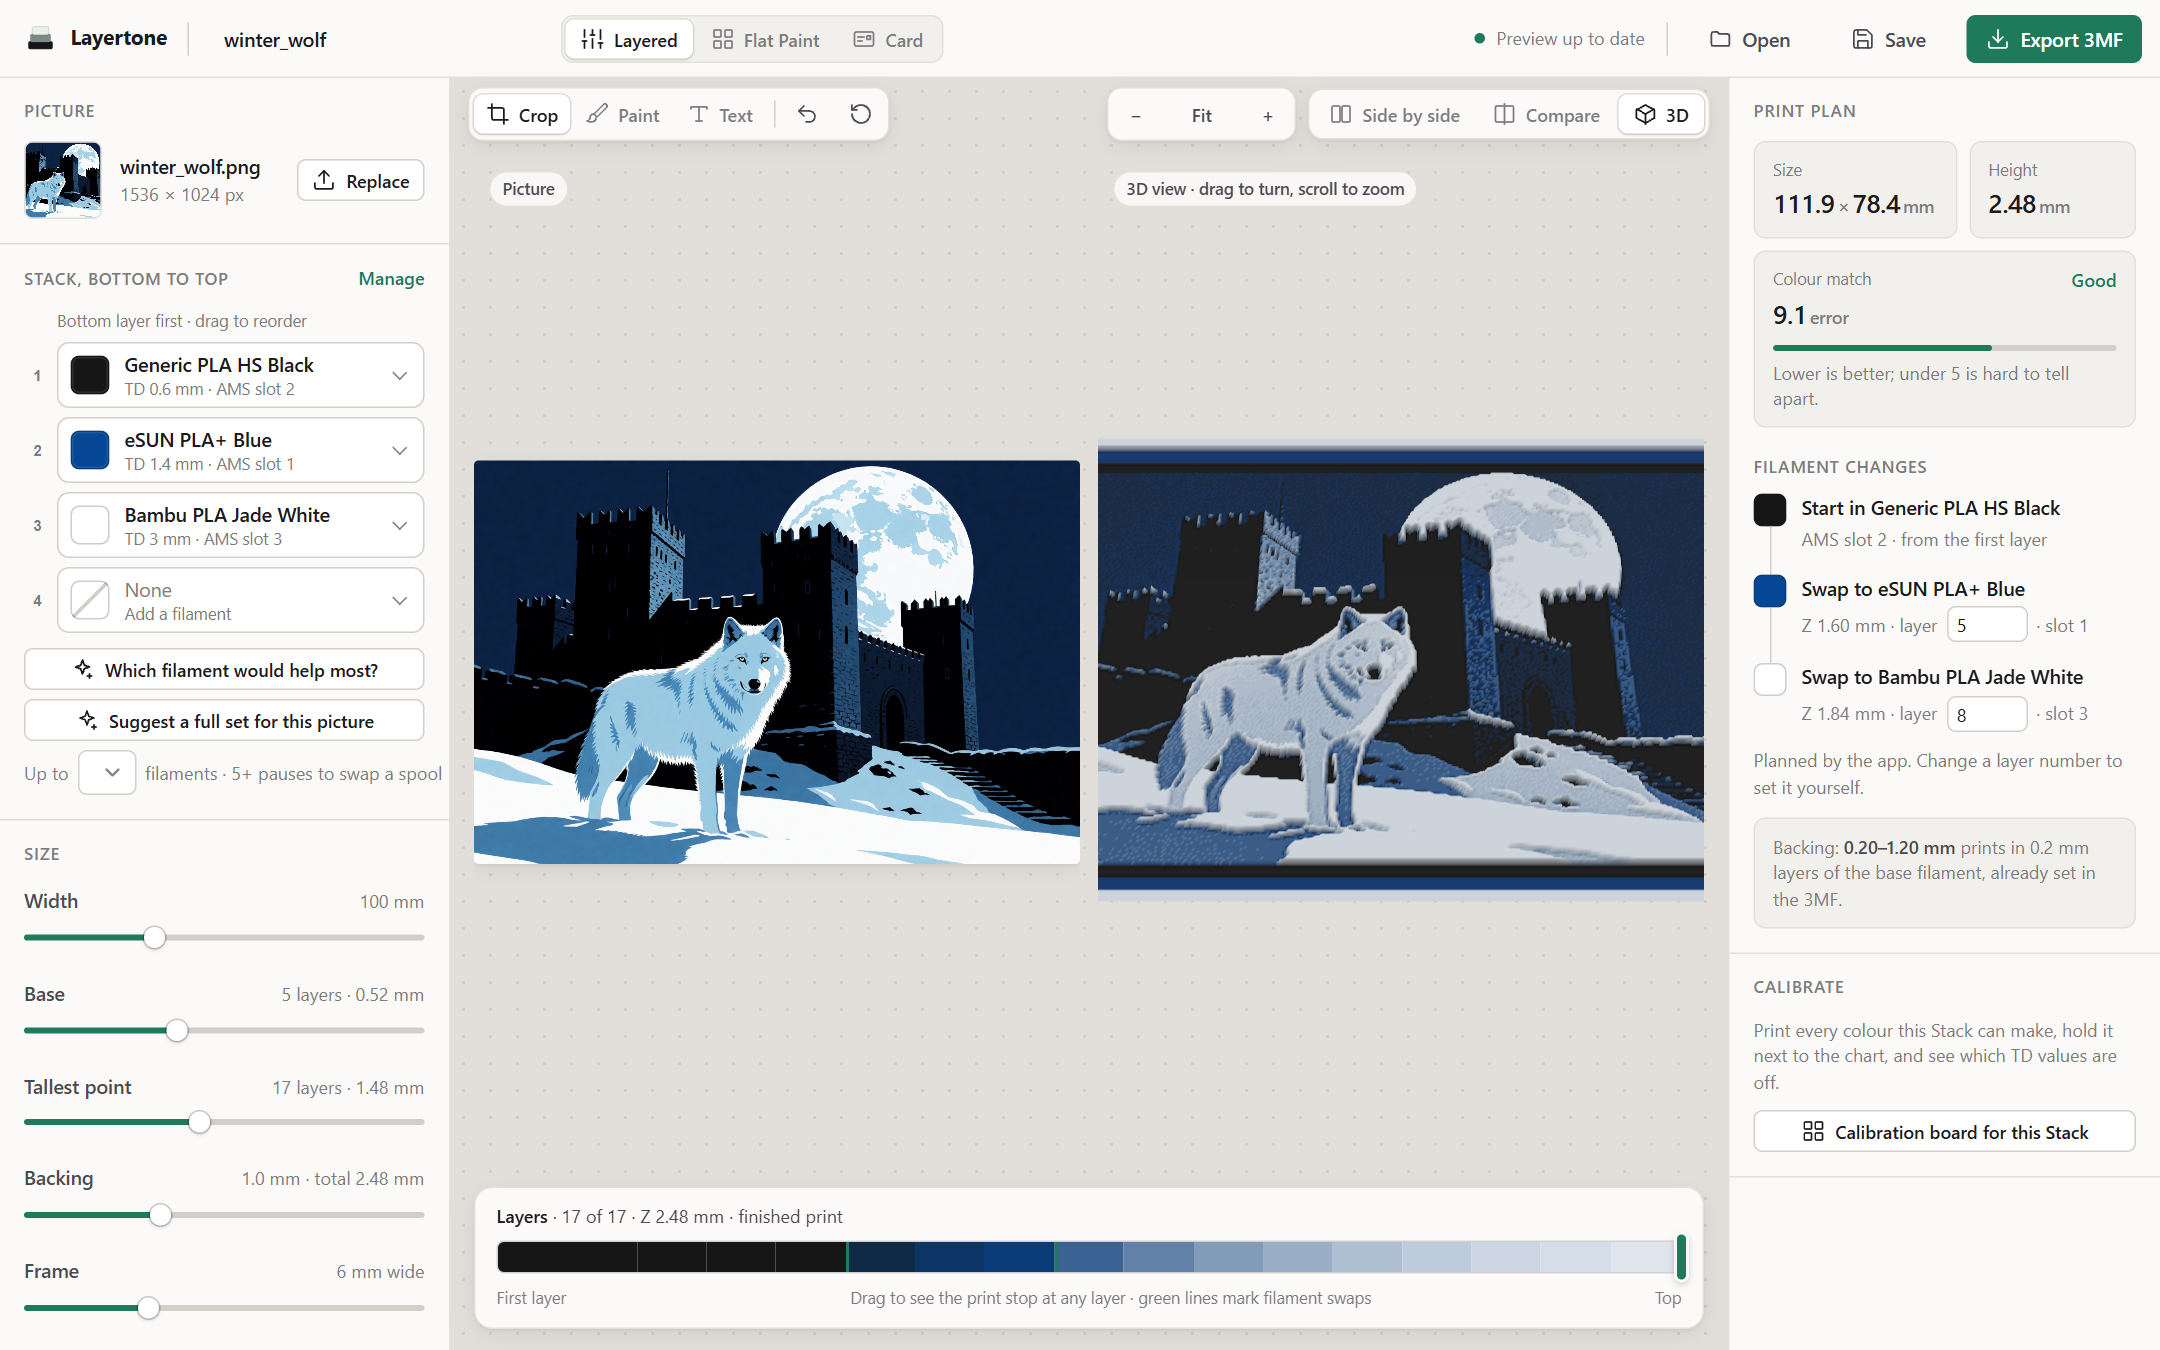
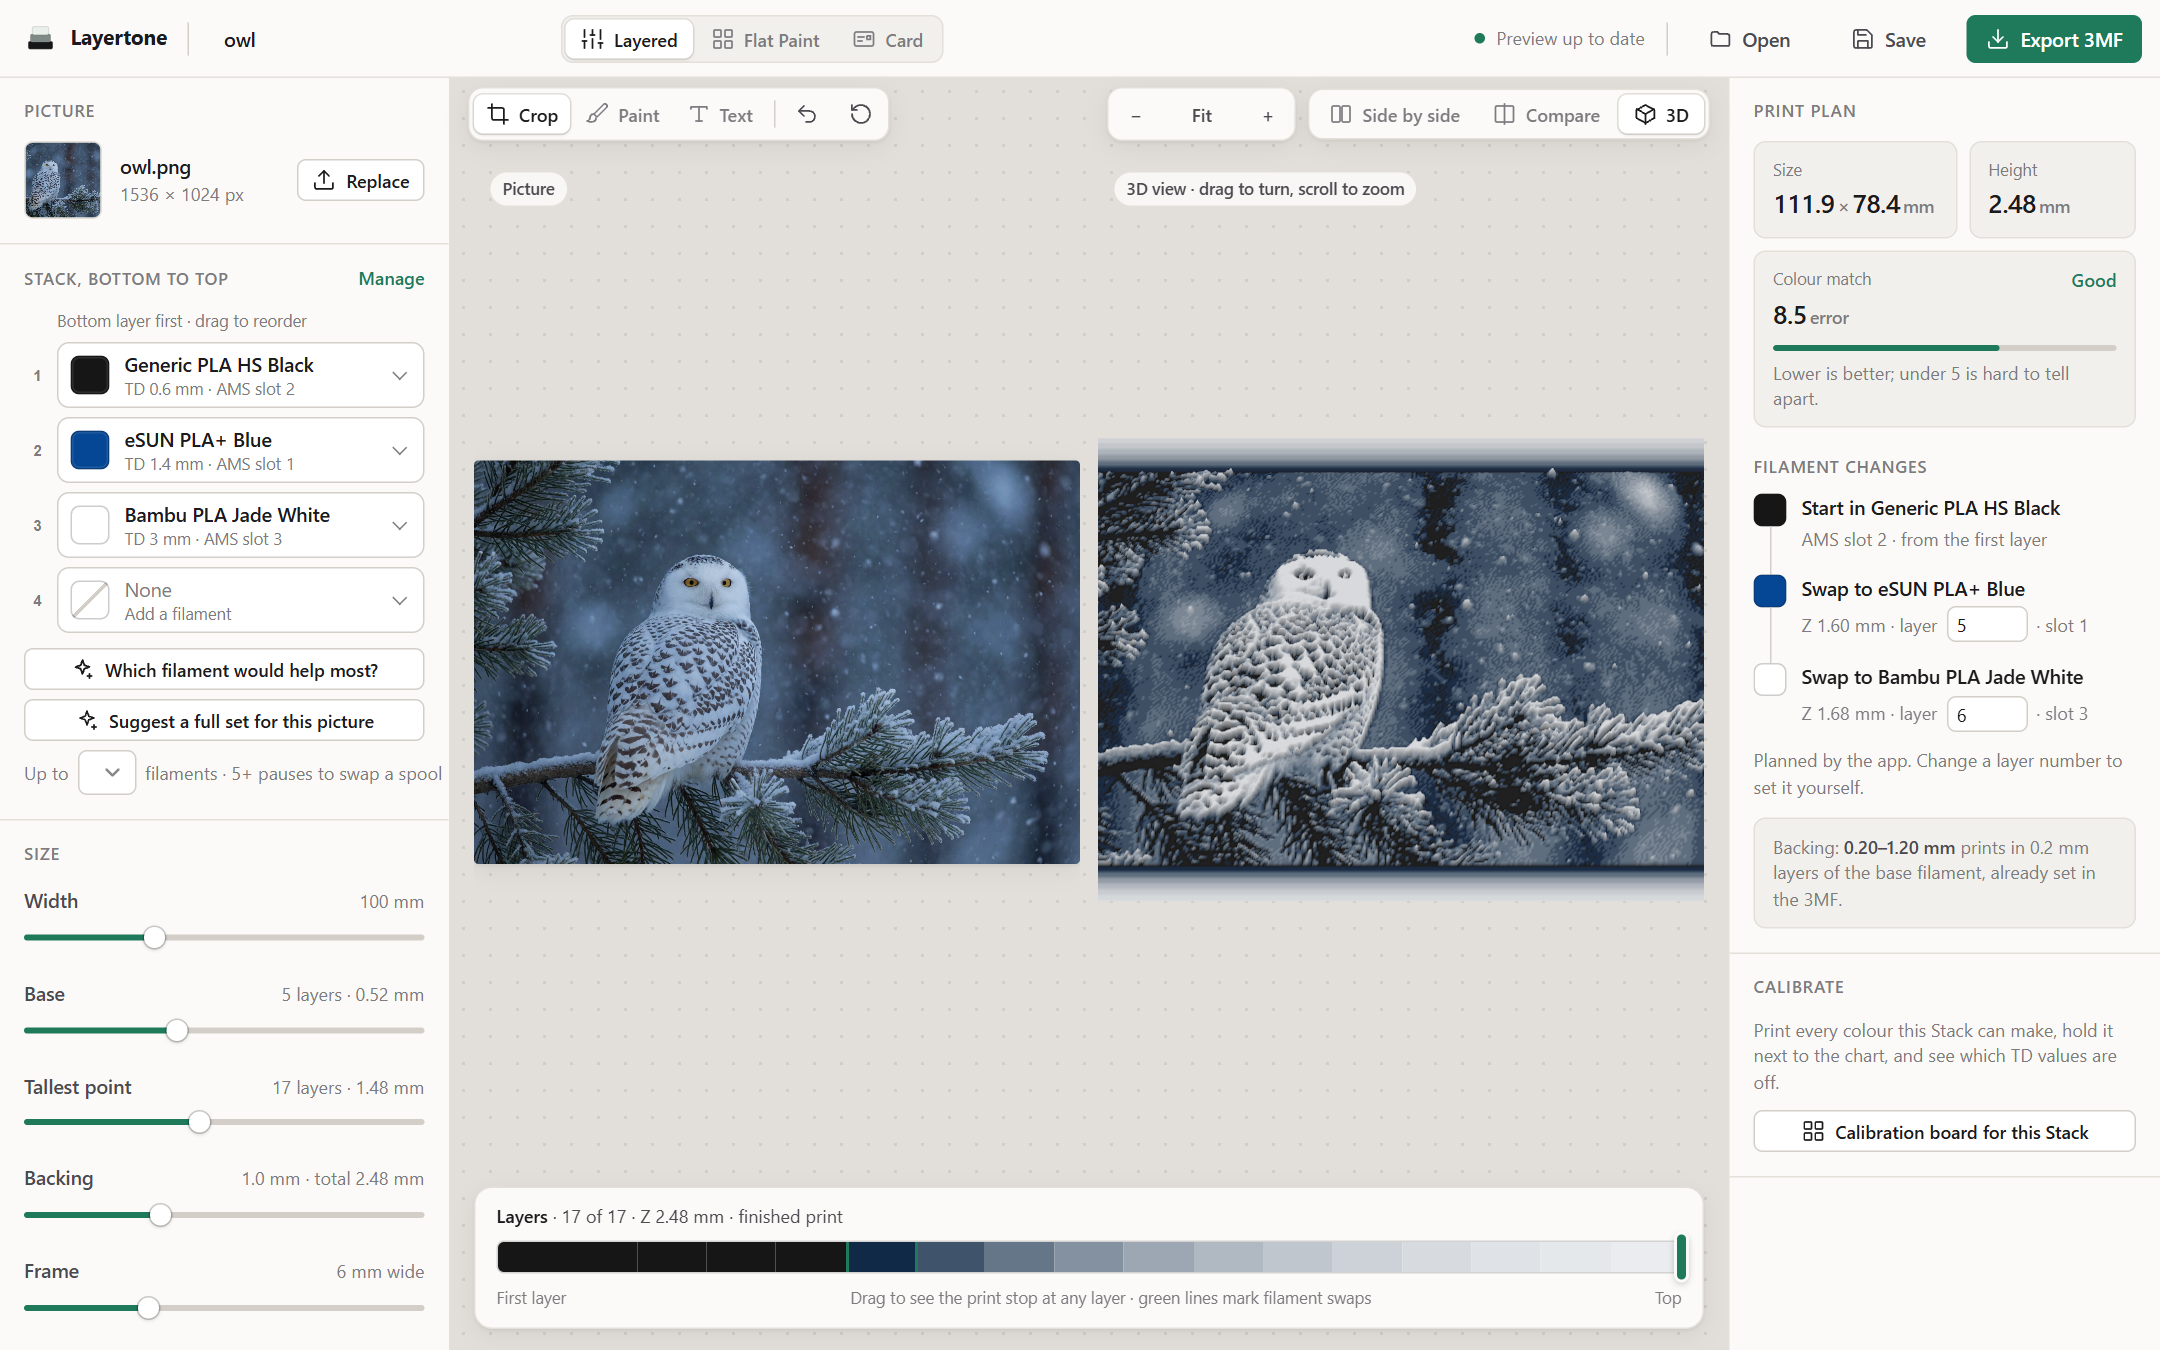
README: header with the real app, photo-to-print examples from realistic photos

diff --git a/README.md b/README.md
@@ -1,12 +1,5 @@
 <p align="center">
-  <img src="examples/logo/layertone_rings_mark.svg" width="88" alt="">
-</p>
-
-<h1 align="center">layertone</h1>
-
-<p align="center">
-  <b>Turn any picture into a layered filament print.</b><br>
-  Stacked layers of a few filaments blend into the picture's tones, ready to slice in Bambu Studio.
+  <img src="docs/images/banner.png" alt="layertone: photos in, layered filament prints out. The app showing a snowy owl photo next to how the print will look">
 </p>
 
 <p align="center">
@@ -16,9 +9,17 @@
   <a href="LICENSE"><img alt="License: MIT" src="https://img.shields.io/badge/license-MIT-blue"></a>
 </p>
 
+## From photo to print
+
 <p align="center">
-  <img src="docs/images/hero.png" alt="Two layered prints: a wolf in front of a castle with a stepped frame, and a dragon over a castle with a bevelled frame">
+  <img src="docs/images/photo-owl.png" alt="A snowy owl photo, and the same picture as a three-filament layered print with a bevelled frame">
+  <br><br>
+  <img src="docs/images/photo-lighthouse.png" alt="A colour photo of a lighthouse in a storm, and the same picture as a black and white two-filament print">
 </p>
+
+Left: the photo you start from. Right: a render of the print layertone makes from it, with only
+**black, blue and white** filament (owl) or just **black and white** (lighthouse). The tones come from how
+thick each filament is stacked, not from more colours.
 
 ---
 
@@ -139,7 +140,7 @@ layertone-card "Alex Doe" "Maker" "alex@example.com" --qr https://example.com --
 ```
 
 Each run writes `<name>.3mf` (Bambu Studio project), `<name>.stl` and `<name>.png` (preview), and prints
-the swap heights. Try it with the demo pictures in [`examples/pictures`](examples/pictures).
+the swap heights. Try it with the demo pictures in [`examples/pictures`](examples/pictures) (`owl.png`, `lighthouse.png` and two illustrations).
 
 ## Commands
 
@@ -198,7 +199,7 @@ Run the tests with `python -m pytest -q`.
 - Inspired by layered "filament painting" prints popularised by HueForge. layertone is an independent
   project, not affiliated with HueForge, Bambu Lab or Kromacut, and uses none of their code.
 - [Inter](https://rsms.me/inter/) font (SIL Open Font License) and [three.js](https://threejs.org) (MIT) are bundled.
-- Demo pictures are AI-generated.
+- Demo pictures are AI-generated (Krea 2, run locally).
 
 ## License
 
